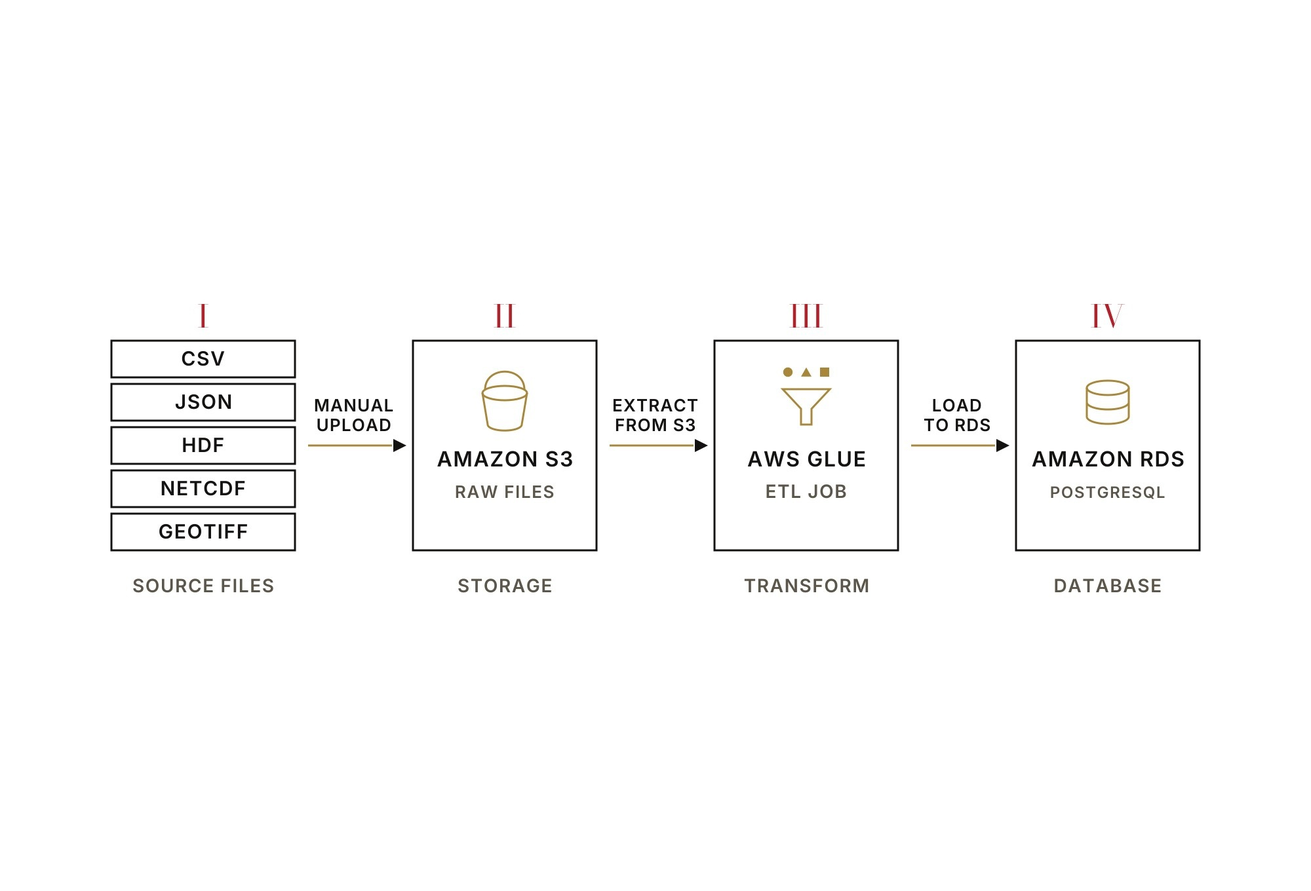
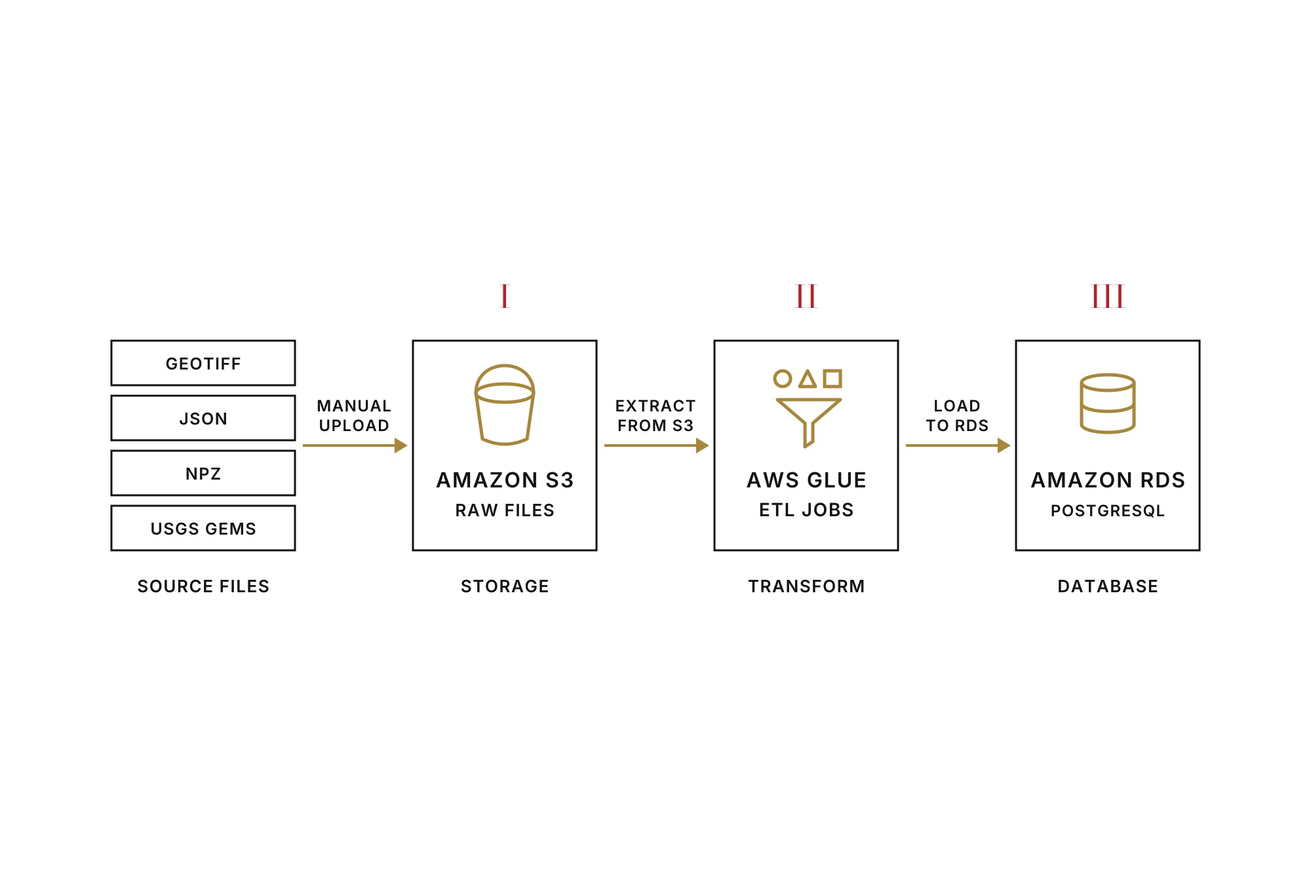
Updated Home, Project, Archive, About pages

diff --git a/aws-etl-pipeline.html b/aws-etl-pipeline.html
@@ -43,7 +43,7 @@
                     viewBox="0 0 14 26" aria-hidden="true">
                     <path d="M12 2L2 13l10 11" fill="none" stroke="currentColor" stroke-width="1.5" />
                   </svg></button>
-                <img src="../images/work/work-3.jpg" alt="Diagram of the pipeline"
+                <img src="../images/work/work-3.jpg" alt="Database architecture diagram"
                   onerror="this.parentNode.classList.add('missing');this.remove()">
                 <button class="arrow next" data-next aria-label="Next image"><svg width="14" height="26"
                     viewBox="0 0 14 26" aria-hidden="true">
@@ -85,13 +85,11 @@
           geographic region the data describes. As the different AOI's added up, it became hard to keep track of which
           areas
           we were working with or what data was available for the specific region. On average, each dataset took about 3
-          hours to prepare. The files also arrived through
-          informal channels like Slack and Dropbox.
+          hours to prepare. The files also arrived through informal channels like Slack and Dropbox.
           <br><br>
           To address this, I suggested building a database to hold all of our datasets in one centralized, organized
           place. After researching services, I chose <b>Amazon Relational Database Service (RDS)</b>. RDS was new to the
-          team, so I took on the project and
-          built it myself.
+          team, so I took on the project and built it myself.
           <br><br>
           A database needs data in tables, so the datasets also had to be converted into a tabular format. I was already
           comfortable with databases like <b>MySQL Server</b> and <b>Snowflake</b>, and I was excited to turn this data
@@ -102,46 +100,88 @@
         </p>
         <h3 class="sub project">"What data did you work with?"</h3>
         <p>
-          <b>Comma-Separated Values (.csv).</b> A CSV file is a plain-text table: each line is a row, and commas
-          separate the values in that row. It is the simplest format on this list and the closest to what the database
-          needed. Excel workbooks (.xlsx) also hold tables, but in a different format that isn't plain text, so they
-          need their own step to read.
+          <b>Comma-Separated Values (.csv).</b> A plain-text table where each line is a row and commas separate the
+          values. Ours included a <b>well</b> history file for oil and gas wells, and tables of well log curves, well
+          coordinates and quality summaries, which the team produced for the Colorado <b>joint inversion</b>.
           <br><br>
-          <b>JavaScript Object Notation (.json).</b> JSON stores information as labeled values and lists that can be
-          nested inside each other, which makes it flexible but not tabular. The well logs, for example, came as one
-          JSON file per well, each containing a list of measurement curves, so they had to be flattened into rows.
-          GeoJSON is a more specific type of JSON for geographic features: each entry describes a point, line or
-          polygon, along with its coordinates and any labels attached to it.
+          <b>JavaScript Object Notation (.json).</b> A format that stores labeled values and lists nested inside each
+          other. Our Colorado well logs arrived as JSON, one file per well, each containing a list of <b>measurement
+            curves</b>. <b>GeoJSON</b> is a version of JSON for geographic features, such as points, lines and polygons.
+          We had
+          GeoJSON files for oil and gas wells in Texas.
           <br><br>
-          <b>NumPy Zipped Archive (.npz).</b> NumPy is a Python library for working with grids of numbers, and an .npz
-          file bundles several of those grids, each with a name, into one compressed file. Ours held the output of a
-          joint gravity and magnetic inversion. Gravity surveys measure small changes in the pull of gravity, which
-          reflect how dense the rock below is. Magnetic surveys measure changes in the magnetic field, which reflect how
-          magnetic the rock is. An inversion works backward from those measurements to estimate what arrangement of rock
-          underground would have produced them, and doing both together is called a joint inversion. The result is a 3D
-          grid of cells, each with a location and two estimated values: density and magnetic susceptibility.
+          <b>NumPy Zipped Archive (.npz).</b> A compressed file that bundles several named grids of numbers from
+          <b>NumPy</b>,
+          a Python library. We had joint inversion results for Colorado in this format: a 3D grid of cells, each with a
+          location and two estimated values, density and <b>magnetic susceptibility</b>. <b>Gravity</b> and <b>magnetic
+            inversions</b> were
+          also delivered as separate NPZ files, each estimating one property.
           <br><br>
-          <b>Hierarchical Data Format (.hdf).</b> HDF is a container for large scientific datasets. Like a folder on a
-          computer, it holds many named datasets, usually grids of numbers, together with descriptions of what they
-          contain, all in one file. It is common for satellite data. The older HDF4 version uses the .hdf extension and
-          the newer HDF5 version uses .h5.
+          <b>Network Common Data Form (.nc).</b> A self-describing format for scientific data that varies across
+          dimensions such as latitude, longitude, depth and time. The Colorado joint inversion folder held files in this
+          format.
           <br><br>
-          <b>Network Common Data Form (.nc).</b> NetCDF is a format for scientific data that varies across dimensions
-          such as latitude, longitude, depth and time, for example temperature across a map over many years. Each file
-          describes its own contents. It is especially common in climate and ocean science, and the newer NetCDF-4
-          version is built on top of HDF5, so the two are close relatives.
+          <b>Hierarchical Data Format (.h5).</b> A container that holds many named datasets, usually grids of numbers,
+          plus descriptions of them in one file. Our <b>seismic data</b> came in this format.
           <br><br>
-          <b>GeoTIFF (.tif, .tiff).</b> A GeoTIFF is an image file that also records where on the Earth it sits, so
-          every pixel can be matched to a real location. It is a type of raster, a grid of cells where each cell holds a
-          value. Our elevation data, known as DEM (digital elevation model) data, was shared as GeoTIFFs, and each
-          cell's value was the height of the ground at that spot.
+          <b>GeoTIFF (.tif).</b> An image file that also records where on Earth it sits. It is a <b>raster</b>, a grid
+          of
+          cells, and each cell holds a value. Our elevation data for the Laramie, Wyoming acreage was a set of more than
+          70
+          GeoTIFFs, where each cell held the ground elevation at that spot, known as <b>digital elevation model
+            (DEM)</b> data.
+          The gravity and magnetic folders held a form called Cloud Optimized GeoTIFF, built so programs can read just
+          part of the file.
+          <br><br>
+          <b>Gzip (.gz).</b> A compressed file that holds one or more files in a smaller form. The gravity and magnetic
+          folders each held a gzip file containing a grid stored as plain-text rows of x, y and value: <b>Bouguer
+            anomaly</b>
+          data in one, and magnetic data in the other.
+          <br><br>
+          <b>Shapefile (.shp and companion files).</b> A group of files that stores geographic shapes with a table of
+          information about each one. We had one set per oil and gas well, one for a protected area, and others in the
+          geologic map files. The files must be kept together under the same name.
+          <br><br>
+          <b>Keyhole Markup Language (.kml).</b> A plain-text, <b>XML</b>-based format for describing places on a map.
+          The KML
+          files in the Colorado joint inversion folder outlined the AOI the inversion covers.
+          <br><br>
+          <b>Log ASCII Standard (.las).</b> A plain-text format for well logs, the measurements an instrument records as
+          it is lowered through a <b>borehole</b>. A header describes the well, followed by one row per depth and one
+          column
+          per measurement curve. We had these in both the Colorado well logs and joint inversion folders.
+          <br><br>
+          <b>USGS GeMS (geologic map files).</b> GeMS is the <b>USGS</b> standard for digital geologic maps, which
+          describe the
+          rock units at the surface and where they meet. Ours came in two forms, as shapefiles and as an <b>Esri
+            geodatabase</b>, a folder of files that together form one database. Both held the same map layers, such as
+          contacts and faults, geologic lines and map unit polygons. The geodatabase also held descriptive tables, such
+          as a description of each rock unit, the sources of the data, a glossary and rock types.
         </p>
         <h3 class="sub project">STEP ONE: EXTRACT</h3>
-        <p>Datasets for different earth layers, such as GeoTIFF for elevation and JSON for well logs, arrived through
-          different channels, some sent in Slack and some shared through Dropbox links. They were gathered and
-          uploaded into a single AWS S3 bucket.</p>
+        <p>
+          The data types uploaded to S3 were: CSV, JSON, GeoJSON, NPZ, NetCDF, HDF, GeoTIFF, gzip, shapefile, KML, LAS
+          and the USGS
+          geodatabase files.
+          <br><br>
+          Our data arrived from several scattered sources, such as Slack and Dropbox. Most of the files were shared in
+          Slack, so I collected them and uploaded them by hand. I put the files into a single Amazon S3 bucket so
+          the data would be easy to find in one place, and so the rest of the pipeline could read from it. The raw files
+          stayed in the bucket exactly as they arrived, which meant any job could be re-run from the originals.
+          <br><br>
+          In total, the data I worked with came to about 8,700 files across 6 folders, plus a few loose files. Most of
+          those files are parts of shapefiles: the oil and gas wells folder alone held about 250 well shapefiles,
+          each made up of around 24 files. The folders were organized in two ways: by area of interest AOI,
+          such as Colorado, Wyoming, or Texas, and by Earth layer, such as joint inversion or well logs. Some folders
+          were large. The GeoTIFF folder, for the Laramie acreage elevation data, held more than 70 individual files and
+          was over 2 GB.
+        </p>
         <h3 class="sub project">STEP TWO: TRANSFORM</h3>
-        <p>AWS Glue ETL Jobs, one for each kind of data.</p>
+        <p>
+          <b>Transformed with AWS Glue:</b> GeoTIFF (elevation), JSON (well logs), NPZ (joint inversion) and the USGS
+          GeMS files, which were inventoried and not converted.
+          AWS Glue ETL Jobs, one for each kind of data.
+        </p>
       </section>
 
       <!-- THE FOUR JOBS: copy one <article class="job"> to add another. Each has a mini visual (the <svg>). -->
@@ -546,6 +586,10 @@
         <h3 class="sub project">STEP THREE: LOAD</h3>
         <p>The results go into a PostgreSQL database on AWS RDS, so the Data Visualization team can query the data
           directly with SQL.</p>
+        <h3 class="sub project">"What did you learn?"</h3>
+        <p>
+          This was my first time having to build infrastructure while accounting for security risks.
+        </p>
         <h3 class="sub project">"What would you improve?"</h3>
         <p>
           There are some limitations of the current pipeline.
@@ -559,46 +603,12 @@
           There were other file types I had worked with but that weren't in use at the time, and the team could come
           across them again. Adding transformations for them would let the database hold more of the project's data.
           <br><br>
-          <b>Shapefile (.shp and companion files).</b> A shapefile stores geographic shapes, such as points, lines or
-          polygons, along with a table of information about each one. It is a group of files, not one: .shp holds the
-          shapes, .shx indexes them, .dbf holds the attribute table, .prj records the coordinate system, .cpg records
-          the text encoding, .sbn and .sbx are spatial indexes that speed up searches, and .qmd holds metadata written
-          by QGIS. The format was created by Esri in the 1990s, and it splits the parts into separate files so programs
-          can read only the piece they need. They must be kept together, with the same file name, or the shapefile won't
-          open correctly. We used these to define areas of interest. A shapefile is already close to a table, since the
-          .dbf has one row per shape. A Python library such as GeoPandas can read all the parts together and produce one
-          row per shape, with the attributes as columns. The shape itself can be saved as text (in a format called WKT)
-          or, with the PostGIS extension, as a true geometry column in PostgreSQL. For areas of interest, that would
-          give a small table of area name, boundary and coordinate system.
-          <br><br>
-          <b>SEG-Y (.segy, .sgy).</b> SEG-Y is the standard format for seismic data, created in 1975 by the Society of
-          Exploration Geophysicists for storage on magnetic tape. A seismic survey sends sound waves into the ground and
-          records the echoes that return from the rock layers. Each recording is called a trace: a series of
-          measurements over time. A SEG-Y file holds a text header describing the survey, a binary header, and then
-          every trace, each with its own header (including its location) followed by its values. We received our seismic
-          data in this format. It could become a table in a few ways: a catalog with one row per trace (location, number
-          of samples, sampling interval), which is small and quick to build, or a full version with one row per trace
-          and the values stored as a list. Seismic files are very large, so it would make sense to limit the full
-          version to a region or depth range, or to keep the original file in S3 and store only the catalog and a link
-          to it. Libraries such as segyio or ObsPy can read the format.
-          <br><br>
-          <b>Log ASCII Standard (.las).</b> LAS is a plain-text format for well logs: the measurements an instrument
-          records as it is lowered through a borehole. A file starts with a header that describes the well (its name,
-          location, depth range and units, and the value used to mark a missing measurement). It lists the measurement
-          curves in the file, such as natural radioactivity or electrical resistance, and then it has a block of
-          columns, with one row for each depth and one column for each curve. That layout is already close to a table,
-          so this is probably the easiest of the three formats to transform. The header could become a small table with
-          one row per well, and the measurements could go into a second table. One option is a wide table with a row per
-          depth and a column per curve, which is compact and easy to read. Another is a long table with one row per
-          depth and curve (well, depth, curve name, value), which handles wells with different sets of curves more
-          easily. Missing values should be turned into proper empty values. A Python library such as lasio can read the
-          format. This would also fix a limitation of the current well-log job, which stores a catalog of which curves
-          each well has and how many data points each one contains, but not the measurements themselves.
-          <br><br>
           Adding these three transformations to the pipeline would be a natural next step.
         </p>
       </section>
+      <!-- terms to add:
 
+       -->
       <section class="gloss">
         <div class="label red tag">Glossary</div>
         <dl class="glossary">
@@ -628,6 +638,11 @@
               the rock around it.</dd>
           </div>
           <div>
+            <dt>Bouguer anomaly</dt>
+            <dd>A gravity measurement that has been corrected for the effects of elevation and the surrounding terrain.
+              What remains reflects differences in the density of the rock underground.</dd>
+          </div>
+          <div>
             <dt>bucket</dt>
             <dd>A container in Amazon S3 that holds files, like a top-level folder with its own name and access
               settings.</dd>
@@ -643,18 +658,47 @@
               Spreadsheet programs and databases can open it.</dd>
           </div>
           <div>
+            <dt>digital elevation model (DEM)</dt>
+            <dd>A grid of ground elevation values, where each cell holds the height of the land at that location.</dd>
+          </div>
+          <div>
             <dt>digital twins</dt>
             <dd>Virtual models of real places or objects, built from real data so they can be studied on a computer. In
               this project, a digital twin of the earth's layers beneath the ground.</dd>
+          </div>
+          <div>
+            <dt>Esri geodatabase</dt>
+            <dd>A database format from Esri, the company behind ArcGIS, for storing geographic data. A file geodatabase
+              is a folder of files that together hold map layers and tables.</dd>
+          </div>
+          <div>
+            <dt>extensible markup language (XML)</dt>
+            <dd>A text format that labels data with tags, so that both people and programs can read how the data is
+              organized. Keyhole Markup Language (KML) is built on it.</dd>
           </div>
           <div>
             <dt>GeMS</dt>
             <dd>Geologic Map Schema, the USGS standard format for publishing digital geologic maps.</dd>
           </div>
           <div>
+            <dt>GeoJSON</dt>
+            <dd>A version of JSON for geographic features. Each entry describes a point, line or polygon, along with its
+              coordinates and any labels attached to it.</dd>
+          </div>
+          <div>
             <dt>GeoTIFF</dt>
             <dd>An image file that also stores geographic location, so every pixel can be placed on the Earth. Often
               used for elevation maps and satellite images.</dd>
+          </div>
+          <div>
+            <dt>gravity inversion</dt>
+            <dd>A method that works backward from gravity measurements to estimate how dense the rock is at different
+              places underground.</dd>
+          </div>
+          <div>
+            <dt>gzip</dt>
+            <dd>A compression format that shrinks a file into a smaller one, usually ending in .gz. The file has to be
+              unpacked before it can be used.</dd>
           </div>
           <div>
             <dt>HDF</dt>
@@ -673,9 +717,19 @@
               of interpreting each one separately.</dd>
           </div>
           <div>
+            <dt>Keyhole Markup Language (KML)</dt>
+            <dd>A text format, based on XML, for describing places on a map, such as points, lines and outlined areas.
+              It was created for Google Earth.</dd>
+          </div>
+          <div>
             <dt>Log ASCII Standard (LAS)</dt>
             <dd>A plain-text file format for well logs. A header describes the well and its measurements, and the
               columns below it hold one row per depth with a value for each measurement.</dd>
+          </div>
+          <div>
+            <dt>magnetic inversion</dt>
+            <dd>A method that works backward from magnetic measurements to estimate how magnetic the rock is at
+              different places underground.</dd>
           </div>
           <div>
             <dt>magnetic susceptibility</dt>
@@ -688,9 +742,21 @@
               resistance.</dd>
           </div>
           <div>
+            <dt>MySQL Server</dt>
+            <dd>An open-source database system that stores data in tables and is queried with SQL.</dd>
+          </div>
+          <div>
             <dt>netCDF</dt>
             <dd>Network Common Data Form, a file format for multi-dimensional scientific data, such as temperature
               across a map over time. Common in climate and ocean science.</dd>
+          </div>
+          <div>
+            <dt>NumPy</dt>
+            <dd>A Python library for working with grids of numbers.</dd>
+          </div>
+          <div>
+            <dt>NumPy Zipped Archive (npz)</dt>
+            <dd>A compressed file that bundles several named NumPy grids of numbers into one file.</dd>
           </div>
           <div>
             <dt>raster</dt>
@@ -698,9 +764,38 @@
               holds the height of the ground at that spot.</dd>
           </div>
           <div>
+            <dt>seismic data</dt>
+            <dd>Recordings of sound waves sent into the ground and reflected back from rock layers. They show where the
+              layers change and are used to map what lies underground.</dd>
+          </div>
+          <div>
+            <dt>shapefile</dt>
+            <dd>A format from Esri that stores geographic shapes, such as points, lines and polygons, along with a table
+              of information about each one. It is a group of files that must be kept together.</dd>
+          </div>
+          <div>
+            <dt>Snowflake</dt>
+            <dd>A cloud platform for storing and analyzing large amounts of data using SQL.</dd>
+          </div>
+          <div>
             <dt>subsurface geology</dt>
             <dd>The study of what lies underground: the layers of rock and sediment, what they are made of, and how they
               are arranged beneath the surface.</dd>
+          </div>
+          <div>
+            <dt>traces</dt>
+            <dd>In seismic data, a trace is one recording of echoes at a single location, stored as a series of
+              measurements over time.</dd>
+          </div>
+          <div>
+            <dt>USGS</dt>
+            <dd>The United States Geological Survey, a federal science agency that studies the country's land, water and
+              geology. It publishes geologic maps and data.</dd>
+          </div>
+          <div>
+            <dt>well</dt>
+            <dd>A hole drilled into the ground, such as to produce oil or gas or to measure the properties of the rock.
+              Well logs are the measurements recorded along it.</dd>
           </div>
         </dl>
       </section>

diff --git a/about.html b/about.html
@@ -29,7 +29,7 @@
 <p><b>Recognition</b>UCI ICS Project Expo: 1st Place in Data Science<br>UCI Dean's List (5x)</p></div>
 <a class="label red" href="documents/Vicki-Bui-Resume.pdf" style="text-decoration:underline">Download CV</a></aside></section>
 <section class="qa"><div style="grid-column:1/-1" class="label red">Get to know the editor</div>
-<div><h3>Ambitions?</h3><p class="p">My long-term career goal is to utilize my unique skillset in a way that will positively impact the most people. I am looking to pursue roles to contribute to a more environmentally-friendly society or a safer AI-dominant world. Most recently, I have been seeking more knowledge and experience within the field of AI safety. Outside of work, I participate in community-building events bringing together tech professionals, particularly with <a href="https://www.womenincleantechsustainability.org/">Women in Cleantech &amp; Sustainability</a> and Founder Beach Walk.</p></div>
+<div><h3>Ambitions?</h3><p class="p">My long-term career goal is to utilize my unique skillset in a way that will positively impact the most people. I am looking to pursue roles to contribute to a more environmentally-friendly society or a safer AI-dominant world. Most recently, I have been seeking more knowledge and experience within the field of AI safety. Outside of work, I want to contribute to building stronger communities for tech professionals. I regularly participate in events with <a href="https://www.womenincleantechsustainability.org/">Women in Cleantech &amp; Sustainability</a> and Founder Beach Walk.</p></div>
 <div><h3>Causes?</h3><p class="p">Sustainability is the #1 cause that matters to me. I volunteer with environmentally-conscious organizations, such as: <a href="https://www.womenincleantechsustainability.org/">Women in Cleantech &amp; Sustainability</a>, <a href="https://bank.green/">Bank.Green</a>, <a href="https://www.the-good-loop.com/">The Good Loop</a>, and <a href="https://www.standuptotrash.com/">Stand Up to Trash</a>. Other causes I get involved in are based on civic responsibility, such as: justice, economic systems, and politics. Ways I have volunteered for these causes are: signature gathering and policy development on political campaigns, and research for a local justice non-profit.</p></div>
 <div><h3>Interests?</h3><p class="p">In my free time, you can find me at home doing daily reading &#40;currently: <a href="https://80000hours.org/book/">80,000 Hours by Benjamin Todd</a>&#41; and journaling. I love nature and occasionally solo travel to see incredible scenery, such as the Redwoods or Northern Lights. I consider myself a life-long learner, especially in the social sciences, such as: history, geography, psychology, and sociology. I am a big fan of fine art, jazz events, electronic &amp; indie music, anything vintage 1920s-1970s, and thrifting. I enjoy all types of food and cafes.</p></div></section>
 <div class="endfan" id="endfan"></div>

diff --git a/archive.html b/archive.html
@@ -11,7 +11,7 @@
 <div class="max">
 <header id="masthead"></header>
 <main>
-<section class="intro"><div><div class="label red tag">Back Issues</div><h2 class="h xl">The Archive</h2></div><p class="p">Every project and paper, in one place. Filter by category, skill or tool.</p></section>
+<section class="intro"><div><h2 class="h xl">The Archive</h2></div><p class="p">Every project and paper, in one place. Filter by category, skill or tool.</p></section>
 <section class="filters"><button class="btn out" data-filter="category" aria-expanded="false" aria-controls="panel">Category ⌄</button><button class="btn out" data-filter="skills" aria-expanded="false" aria-controls="panel">Skills ⌄</button><button class="btn out" data-filter="tools" aria-expanded="false" aria-controls="panel">Tools ⌄</button></section>
 <div class="panel box" id="panel" style="margin-left:var(--pad);margin-right:var(--pad)"><div class="cols"></div></div>
 <section class="arch"><div id="list"></div><div class="thumbs" id="thumbs"></div></section>

diff --git a/index.html b/index.html
@@ -42,7 +42,7 @@
             <img src="images/work/work-3.jpg" alt="AWS Database Architecture Diagram" onerror="this.remove()">
           </figure>
           <div class="label red" style="margin-top:16px">Professional</div>
-          <div class="h">Deconstructing An ETL Pipeline Built For Subsurface Geologic Data</div>
+          <div class="h">Deconstructing An ETL Pipeline</div>
           <div class="label mute" style="margin-top:8px">Image By Vicki Bui</div>
         </a>
         <a href="#">
@@ -88,7 +88,7 @@
           </p>
         </form>
       </section>
-      
+
     </main>
     <footer id="footer"></footer>
   </div>

diff --git a/css/style.css b/css/style.css
@@ -115,6 +115,7 @@ h2,.h{font:400 clamp(32px,4.2vw,52px)/1.05 var(--serif);margin:0}
 .dark.feature-block{flex-direction:column;flex-wrap:nowrap}
 .dark.feature-block .feature-media,.dark.feature-block .home-text{flex:none;width:100%;min-width:0}
 .dark.feature-block.reverse .feature-media{order:-1}
+.text-half{width:100%;margin:0 auto}
 .foot .dia{display:none}}
 .colophon{margin:0;padding:0 0 40px;text-align:center;font-size:11px;line-height:1.7;color:var(--mute)}.colophon em{font:italic 400 14px var(--serif)}
 #footer{margin-top:96px}

diff --git a/css/project.css b/css/project.css
@@ -71,6 +71,3 @@ h3.sub{font:400 clamp(24px,2.6vw,32px)/1.1 var(--serif);margin:28px 0 12px}
 .closing-grid>div:first-child{padding-right:0;padding-bottom:28px}
 .closing-grid>div+div{padding-left:0;border-left:0;padding-top:28px;border-top:1px solid var(--brass)}
 }
-
-/* bold text */
-strong,b{font-weight:600}
